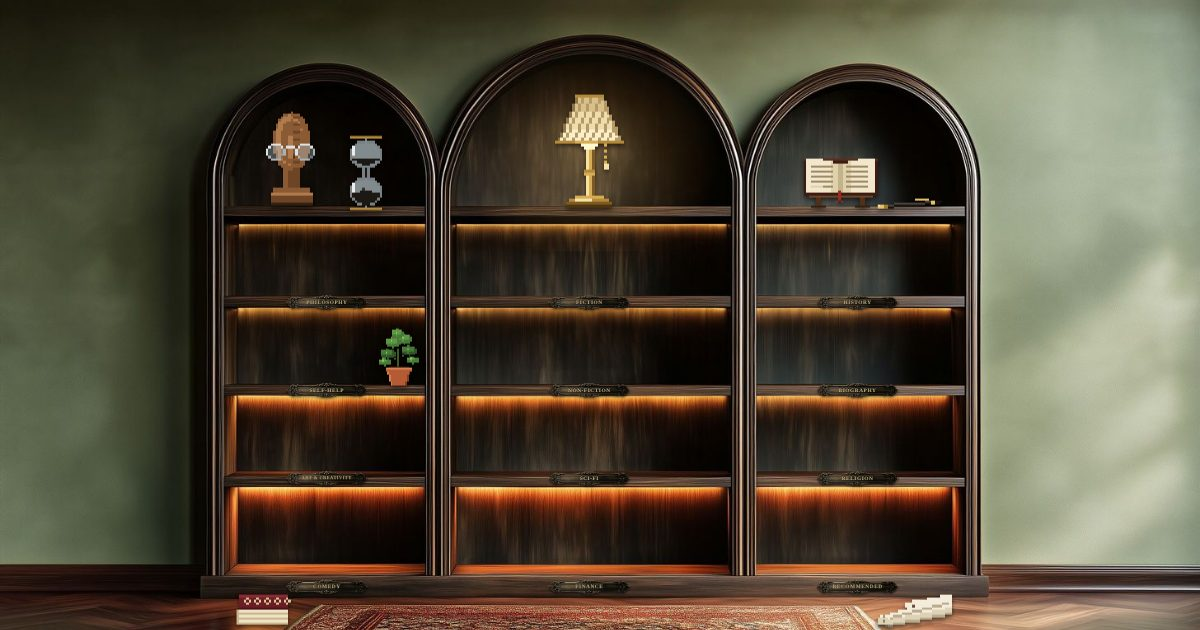
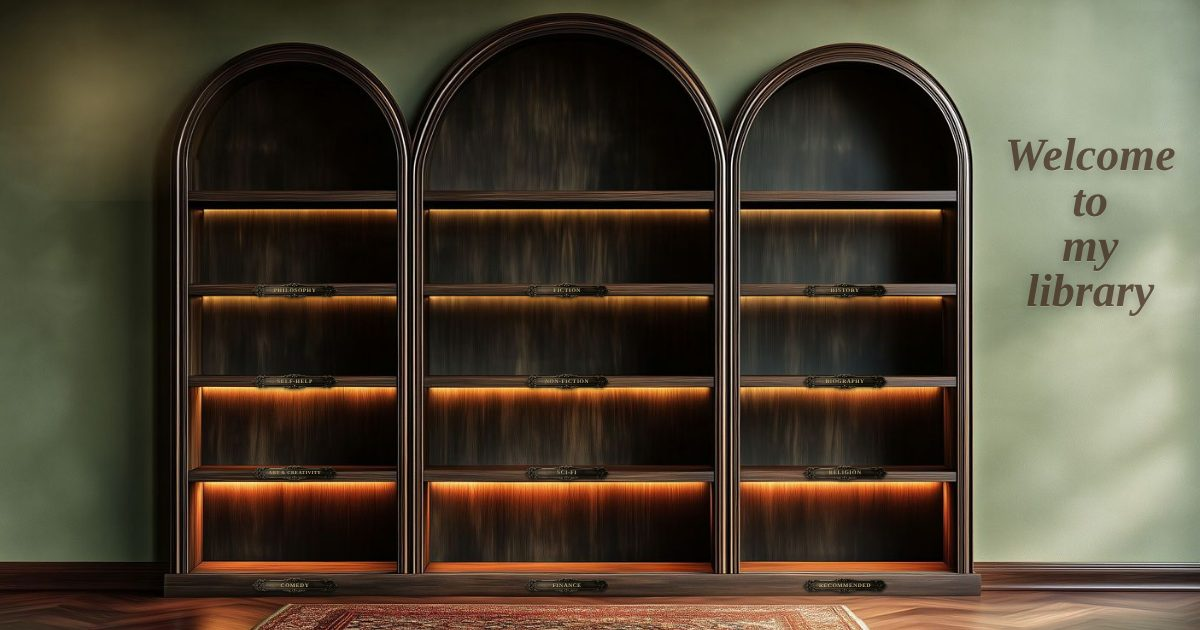
Title stacked down the right-hand wall in walnut brown; no opening zoom
Claude-Session: https://claude.ai/code/session_01BKxVmdhpwGpXez5ZdSrwBH

diff --git a/js/main.js b/js/main.js
@@ -272,16 +272,21 @@ function syncPerspective(bay) {
 // ---------- camera ----------
 function overviewTransform() {
   const vw = innerWidth, vh = innerHeight;
-  const caseW = CASE.x1 - CASE.x0 + 80;
-  // fit the case from just above the arches down to the near edge of the rug
   const viewH = CASE.floor - CASE.y0 + 20;
-  let s = Math.min(vw / caseW, vh / viewH);
-  if (vw >= vh) s = Math.max(s, vw / IMG.w); // landscape: never show past the photo's sides
+  if (vw >= vh) {
+    // case on the left, the stretch of wall to its right carries the title
+    const left = CASE.x0 - 40;
+    const s = Math.min(vw / (IMG.w - left), vh / viewH);
+    const tx = vw - IMG.w * s;
+    let ty = vh - CASE.floor * s;
+    if (vh / s > viewH) ty = vh / 2 - ((CASE.y0 + CASE.floor) / 2) * s;
+    if (IMG.h * s >= vh) ty = clamp(ty, vh - IMG.h * s, 0);
+    return { s, tx, ty };
+  }
+  const caseW = CASE.x1 - CASE.x0 + 80;
+  const s = Math.min(vw / caseW, vh / viewH);
   let tx = vw / 2 - ((CASE.x0 + CASE.x1) / 2) * s;
-  let ty = vh - CASE.floor * s;
-  if (vh / s > viewH) ty = vh / 2 - ((CASE.y0 + CASE.floor) / 2) * s; // tall screens: centre it
-  if (IMG.w * s >= vw) tx = clamp(tx, vw - IMG.w * s, 0);
-  if (IMG.h * s >= vh) ty = clamp(ty, vh - IMG.h * s, 0);
+  let ty = vh / 2 - ((CASE.y0 + CASE.floor) / 2) * s;
   return { s, tx, ty };
 }
 
@@ -623,54 +628,14 @@ function closeDetail() {
 }
 
 
-// ---------- opening shot ----------
-// The page opens pulled back, the title large on the wall above the case, then glides in.
-function introTransform() {
-  const vw = innerWidth, vh = innerHeight;
-  const o = overviewTransform();
-  if (vw < vh) return { ...o, s: o.s * 0.9, tx: vw / 2 - ((CASE.x0 + CASE.x1) / 2) * o.s * 0.9, ty: o.ty + vh * 0.05 };
-  const top = TITLE.introTop;
-  let s = Math.min(vw / (CASE.x1 - CASE.x0 + 80), vh / (CASE.floor - top));
-  s = Math.max(s, vw / IMG.w);
-  const tx = clamp(vw / 2 - ((CASE.x0 + CASE.x1) / 2) * s, vw - IMG.w * s, 0);
-  let ty = vh - CASE.floor * s;
-  ty = Math.min(ty, TITLE.wallLimit * s); // never past the top of the real wall
-  return { s, tx, ty };
-}
-
+// Landscape: stacked down the wall to the right of the case. Portrait: across the wall above it.
 function placeTitle() {
   const t = $("wallTitle");
-  t.style.left = "0px";
-  t.style.width = `${IMG.w}px`;
-  t.style.top = `${TITLE.y}px`;
-}
-
-function runIntro() {
-  if (reduceMotion) return;
-  state.intro = true;
-  const done = () => {
-    if (!state.intro) return;
-    state.intro = false;
-    clearTimeout(timer);
-    removeEventListener("pointerdown", skip, true);
-    removeEventListener("wheel", skip, true);
-    removeEventListener("keydown", skip, true);
-  };
-  const go = (ms) => {
-    done();
-    applyCamera(overviewTransform(), false, ms);
-    setTimeout(() => { $("stage").style.transition = ""; }, ms + 50);
-  };
-  const skip = (e) => {
-    if (!state.intro) return;
-    e.stopPropagation();
-    if (e.type === "wheel") e.preventDefault();
-    go(650);
-  };
-  addEventListener("pointerdown", skip, true);
-  addEventListener("wheel", skip, { capture: true, passive: false });
-  addEventListener("keydown", skip, true);
-  const timer = setTimeout(() => go(1900), 2700);
+  const side = innerWidth >= innerHeight;
+  t.classList.toggle("side", side);
+  t.classList.toggle("top", !side);
+  const box = side ? TITLE.side : TITLE.top;
+  Object.assign(t.style, { left: `${box.x}px`, width: `${box.w}px`, top: `${box.y}px` });
 }
 
 // ---------- pixel objects ----------
@@ -793,7 +758,7 @@ addEventListener("resize", () => {
       placeDepth(state.zoom);
       syncPerspective(state.zoom);
       applyCamera(zoomTransform(state.zoom));
-    } else applyCamera(state.intro ? introTransform() : overviewTransform(), true);
+    } else { placeTitle(); applyCamera(overviewTransform(), true); }
   }, 120);
 });
 
@@ -802,7 +767,7 @@ async function boot() {
   stage.style.width = `${IMG.w}px`;
   stage.style.height = `${IMG.h}px`;
   placeTitle();
-  applyCamera(reduceMotion ? overviewTransform() : introTransform(), true);
+  applyCamera(overviewTransform(), true);
   setupScrolling();
   const photo = $("photo");
   const photoReady = photo.complete ? Promise.resolve() : new Promise((r) => { photo.onload = r; photo.onerror = r; });
@@ -815,7 +780,6 @@ async function boot() {
     state.books = books;
     if (SHOW_OBJECTS) buildObjects();
     document.body.classList.add("ready");
-    runIntro();
   } catch (err) {
     console.error(err);
     $("status").textContent = "The library is closed for a moment. Try again shortly.";

diff --git a/styles.css b/styles.css
@@ -69,36 +69,37 @@ body.ready .bays { opacity: 1; }
 }
 .status.on { opacity: 0.85; }
 
-/* ---------- the title on the wall above the case ---------- */
+/* ---------- the title, lettered on the wall ---------- */
 .wall-title {
   position: absolute;
   text-align: center;
   pointer-events: none;
   opacity: 0;
-  transition: opacity 1.2s ease;
+  transition: opacity 1.4s ease;
 }
-body.ready .wall-title { opacity: 1; }
+body.ready .wall-title { opacity: 0.72; }
 .welcome {
   margin: 0;
   font-family: var(--font-display);
   font-style: italic;
   font-weight: 700;
-  font-size: 196px;
-  line-height: 1;
-  letter-spacing: -0.005em;
-  color: #efe1bd;
-  text-shadow: 0 4px 0 rgba(40, 28, 12, 0.35), 0 16px 26px rgba(10, 8, 4, 0.55), 0 30px 60px rgba(10, 8, 4, 0.35);
+  line-height: 0.98;
+  color: #3a2416;
+  text-shadow: 0 2px 1px rgba(255, 248, 225, 0.22), 0 10px 22px rgba(20, 14, 6, 0.32);
 }
+.wall-title.side .welcome { font-size: 108px; }
+.wall-title.side .welcome span { display: block; }
+.wall-title.top .welcome { font-size: 190px; color: #eadcb8; text-shadow: 0 10px 22px rgba(10, 8, 4, 0.5); }
+.wall-title.top .volumes { color: #eadcb8; }
 .volumes {
-  margin: 34px 0 0;
   font-family: var(--font-display);
   font-weight: 700;
-  font-size: 46px;
-  letter-spacing: 0.4em;
+  letter-spacing: 0.32em;
   text-transform: uppercase;
-  color: #e3cf9c;
-  text-shadow: 0 6px 14px rgba(10, 8, 4, 0.55);
+  color: #3a2416;
 }
+.wall-title.side .volumes { margin: 36px 0 0; font-size: 30px; }
+.wall-title.top .volumes { margin: 28px 0 0; font-size: 42px; }
 
 /* ---------- pixel objects ---------- */
 .objects { position: absolute; inset: 0; pointer-events: none; }

diff --git a/js/layout.js b/js/layout.js
@@ -64,9 +64,11 @@ export const GENRE_ALIASES = {
   "art & creativity": "Art & Creativity",
 };
 
-// The big title on the wall above the case (seen during the opening shot).
-// introTop: highest image row the opening frame shows; wallLimit: real wall ends 810px up.
-export const TITLE = { y: -420, introTop: -520, wallLimit: 800 };
+// The title on the wall: down the right-hand wall on landscape screens, above the case on phones.
+export const TITLE = {
+  side: { x: 2440, w: 430, y: 360 },
+  top: { x: 0, w: 2912, y: -400 },
+};
 
 // Pixel objects: x = centre, base = where they stand (image px), px = size of one art pixel.
 export const OBJECTS = {

diff --git a/index.html b/index.html
@@ -32,7 +32,7 @@
       <img class="photo-ext floor" id="extFloor" src="assets/room-floor.jpg" width="2912" height="869" alt="" aria-hidden="true">
       <div class="depth" id="depth" aria-hidden="true"></div>
       <div class="wall-title" id="wallTitle">
-        <h1 class="welcome">Welcome to my library</h1>
+        <h1 class="welcome"><span>Welcome</span> <span>to</span> <span>my</span> <span>library</span></h1>
         <p class="volumes" id="volumes"></p>
       </div>
       <div class="lamp-glow" id="lampGlow" aria-hidden="true"></div>
